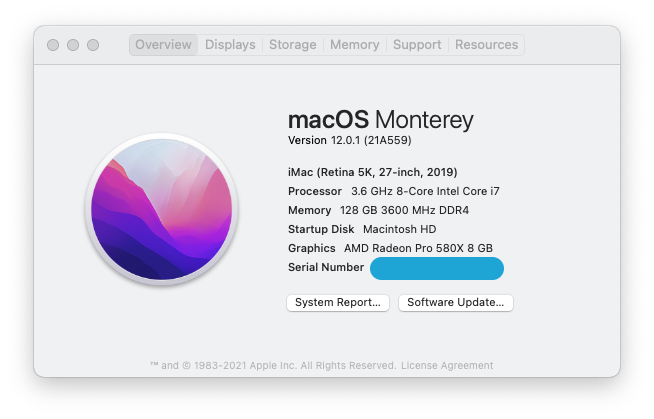
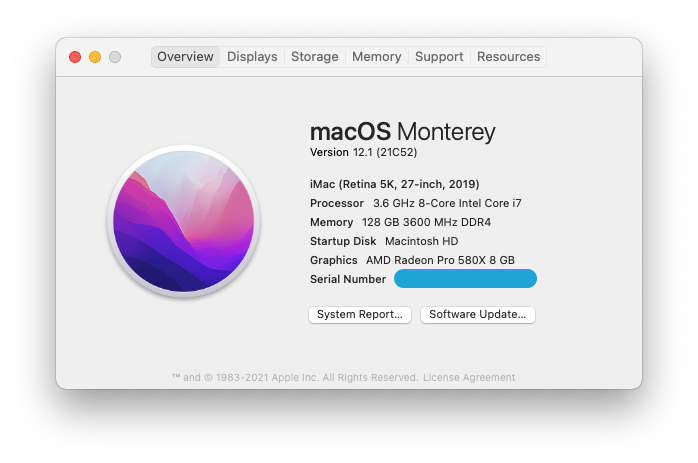
Release 2.1.1

diff --git a/README.md b/README.md
@@ -3,7 +3,7 @@
 
 ## Gigabyte Z390M GAMING hackintosh w/ OpenCore
 
-Verified working with macOS version 12.0.1 (21A559) Monterey and OpenCore 0.7.6.
+Verified working with macOS version 12.1 (21C52) Monterey and OpenCore 0.7.6.
 
 ![System](https://github.com/BenjaminX/Hackintosh-Gigabyte-Z390M-GAMING/blob/master/Tips/About-System.png)
 
@@ -15,6 +15,9 @@ Verified working with macOS version 12.0.1 (21A559) Monterey and OpenCore 0.7.6.
 ![SN/UUID/MLB](https://github.com/BenjaminX/Hackintosh-Gigabyte-Z390M-GAMING/blob/master/Tips/MLBUUIDSN.png)
 
 ## Updates
+2021-12-18 / Version 2.1.1
+Verified working with 12.1 (21C52)
+
 2021-12-13 / Version 2.1.0
 BIOS upgrade to F9 and upgrade to OpenCore 0.7.6 / AppleALC 1.6.7 / VirtualSMC 1.2.8 / WhateverGreen 1.5.5 / Lilu 1.5.8.
 
